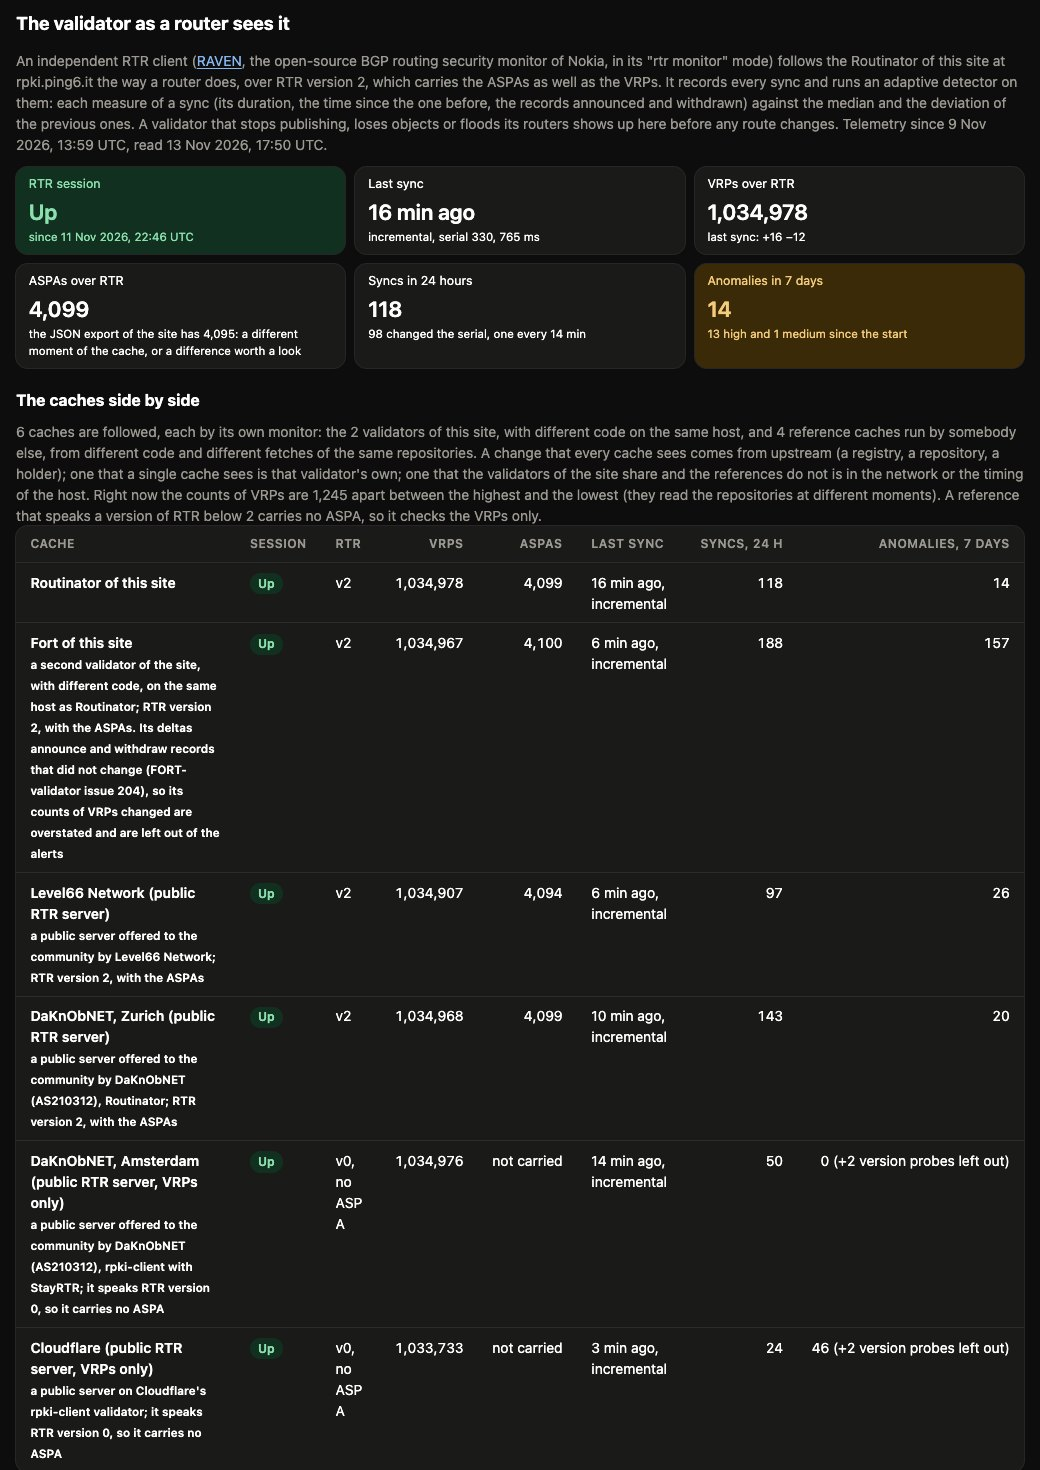
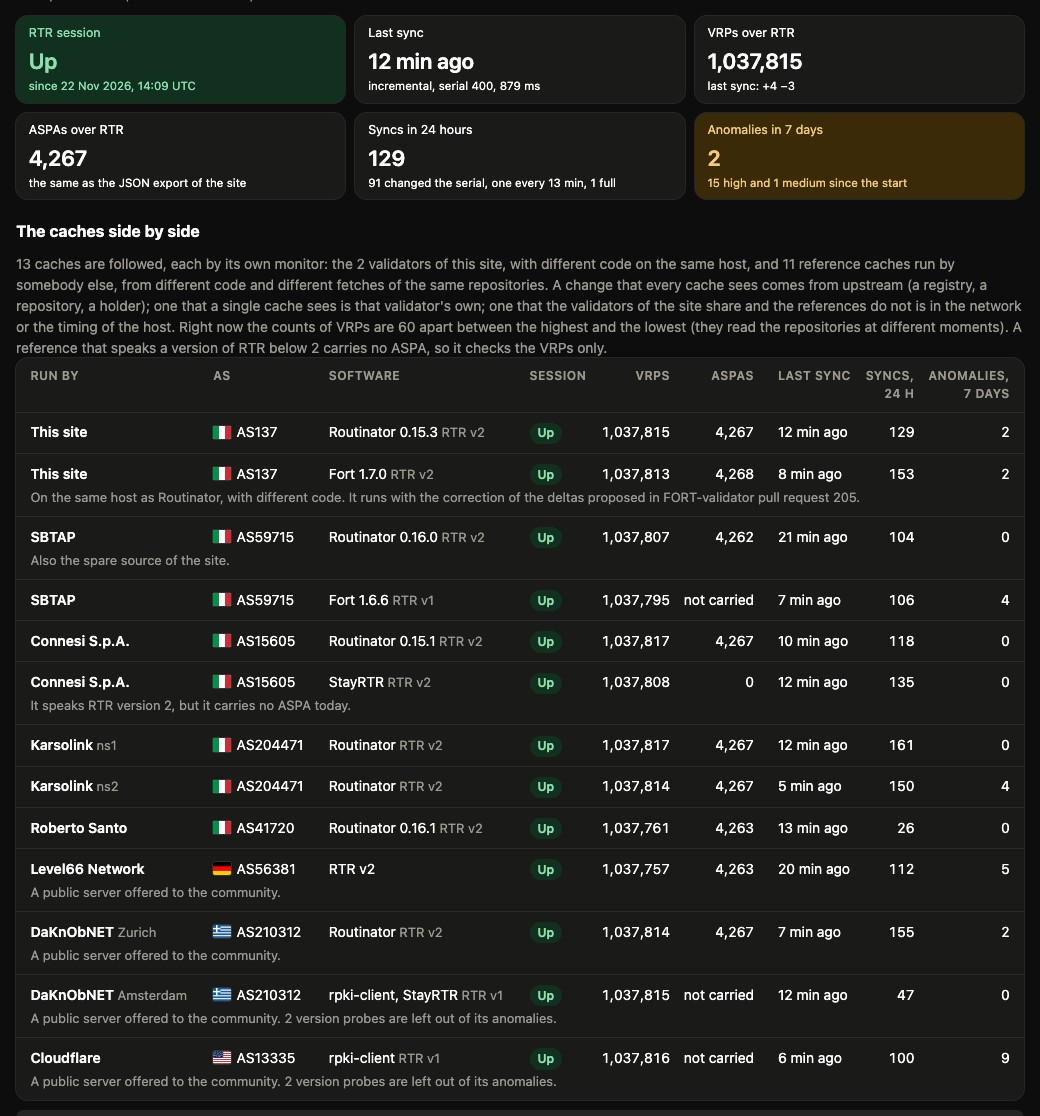
README: the other side of an ASPA, thirteen RTR caches and the flags in the screenshots

diff --git a/README.md b/README.md
@@ -38,7 +38,7 @@
     <td align="center"><sub>Right now, in the dark theme</sub></td>
   </tr>
   <tr>
-    <td width="50%"><img src="assets/screenshots/lookup-light.jpg" alt="Looking up AS680: the answer first (it has an ASPA with 6 providers, and no issue), then the tabs with its ASPA, its routes, its history, the registry and the alerts"></td>
+    <td width="50%"><img src="assets/screenshots/lookup-light.jpg" alt="Looking up AS680: the answer first (it has an ASPA with 6 providers, and no issue, registered in Germany), then the tabs, its own ASPA and the ASPAs that name it, each with a line that says how many the other side does not confirm"></td>
     <td width="50%"><img src="assets/screenshots/statistics-dark.jpg" alt="The Adoption page in the dark theme: the links to its parts under the title, the tiles and the ASPAs over time, stacked by RIR"></td>
   </tr>
   <tr>
@@ -100,7 +100,7 @@
     <td align="center"><sub>Compare two dates for an AS</sub></td>
   </tr>
   <tr>
-    <td colspan="2" align="center"><img src="assets/screenshots/rtr-dark.jpg" width="70%" alt="The validator as a router sees it: the session, the last sync, the VRPs and ASPAs over RTR, the syncs and the anomalies, and the table of the six caches side by side: Routinator and Fort of the site, Level66, DaKnObNET in Zurich and in Amsterdam, and Cloudflare"></td>
+    <td colspan="2" align="center"><img src="assets/screenshots/rtr-dark.jpg" width="70%" alt="The validator as a router sees it: the session, the last sync, the VRPs and ASPAs over RTR, the syncs and the anomalies, and the table of the thirteen caches side by side, each with who runs it, the flag and the number of its AS, the software and the version of RTR: Routinator and Fort of the site, the caches of SBTAP, Connesi, Karsolink and Roberto Santo, and the public servers of Level66, DaKnObNET in Zurich and in Amsterdam, and Cloudflare"></td>
   </tr>
   <tr>
     <td colspan="2" align="center"><sub>The validator as a router sees it, with the caches side by side</sub></td>
@@ -134,6 +134,12 @@
   <tr>
     <td align="center"><sub>The IRR object, CAIDA and the ASPA side by side</sub></td>
     <td align="center"><sub>Many paths at once, with CSV and JSON download</sub></td>
+  </tr>
+  <tr>
+    <td colspan="2" align="center"><img src="assets/screenshots/counterpart-dark.jpg" width="70%" alt="The other side of the ASPAs that name AS41327 as a provider: 6 of 18 are not confirmed, and the table says for each AS what the IRR object of AS41327 declares, what CAIDA infers and the exchange points where both networks are"></td>
+  </tr>
+  <tr>
+    <td colspan="2" align="center"><sub>Does the other side of an ASPA agree? The IRR object of the provider, CAIDA and the exchange points in common</sub></td>
   </tr>
   <tr>
     <td width="50%"><img src="assets/screenshots/report-dark.jpg" alt="A shared result: the summary, the table of paths and the note that the report is unverified"></td>
@@ -203,7 +209,8 @@ The ASPAs shown here come from a [Routinator](https://github.com/NLnetLabs/routi
 
 - **Changes:** the ASPAs that appeared, changed or disappeared in the last 14 days, an Atom feed of them (`/changes.atom`), and the history of one AS. The series is rebuilt from the RIPE NCC RPKI archive (`tools/backfill-history.py`) and extended by the `aspa-snapshot` job every day and by the `history-refresh` job every hour, so a new ASPA shows in its history within the hour.
 - **A feed and a badge for every AS:** `/feed/AS3333.atom` lists the changes of its ASPA and of the ASPAs that add or drop it as a provider; `/badge/AS3333.svg` is a badge with its number of providers (Markdown and HTML to paste are in the lookup).
-- **IRR next to the ASPA:** a button on the page of an AS reads its `aut-num` object (RIPE database and mirrors) and compares the transit providers that it declares with the providers of the ASPA, telling customers, peers and route servers (`import-via`) apart.
+- **IRR next to the ASPA:** a button on the page of an AS reads its `aut-num` object (RIPE database and the mirrors of the other RIRs and JPIRR, not RADb) and compares the transit providers that it declares with the providers of the ASPA, telling customers, peers and route servers (`import-via`) apart.
+- **The other side of an ASPA:** an ASPA is written by the customer alone, so for every pair of customer and provider that an ASPA declares a nightly file (`/api/v1/counterpart.json`) says what the provider itself declares about that customer in its `aut-num` (the daily copies of the registries of RIPE, ARIN, APNIC, AFRINIC, LACNIC, JPIRR, NTTCOM and TC; RADb is left out), what CAIDA infers and, when neither confirms the pair, the exchange points where both networks are (PeeringDB). The page of an AS counts the pairs that nothing confirms under its providers and under the ASPAs that name it, which is how an ASPA that lists its peers as providers shows up.
 - **Alerts on invalid announcements:** a threshold on a subscription (5 to 1000 in ten minutes, once every six hours at most) from the live watcher; **recent checks** kept only in the browser, with what changed since; a **quick look at any AS** on a click, and its **name as a tooltip** when the pointer rests on an AS number (the registry name from RIPEstat, asked only for the ASes looked at; suggested by Leo Vegoda of PeeringDB), with the **flag of the country where the AS is registered** there, on the page of an AS, in the table of the RTR caches and on the Adoption page (SVG files of [flag-icons](https://github.com/lipis/flag-icons), MIT, in `site/img/flags`).
 - **Many paths and shared results:** a box that checks one AS path per line (CSV and JSON download) and a *Share this result* button that turns a result into a link `/r/<id>` kept 30 days, with its own preview in a chat; `POST /api/v1/reports`.
 - **Notifications:** subscribe an e-mail address (confirmed through a link, DKIM-signed mails with a one-click unsubscribe) or a webhook (verified by a challenge, signed with HMAC-SHA256, public https addresses only) to the changes of an AS, or to the state of the service (a part of it becoming late or down, and back). The people who run a cache that the site follows over RTR can be told of the anomalies of their own cache, with what the other caches did at the same time: the operator of the site adds them (`notifier/contact.mjs`) after they agreed. The service is `notifier/`, a small Node.js program with SQLite.
